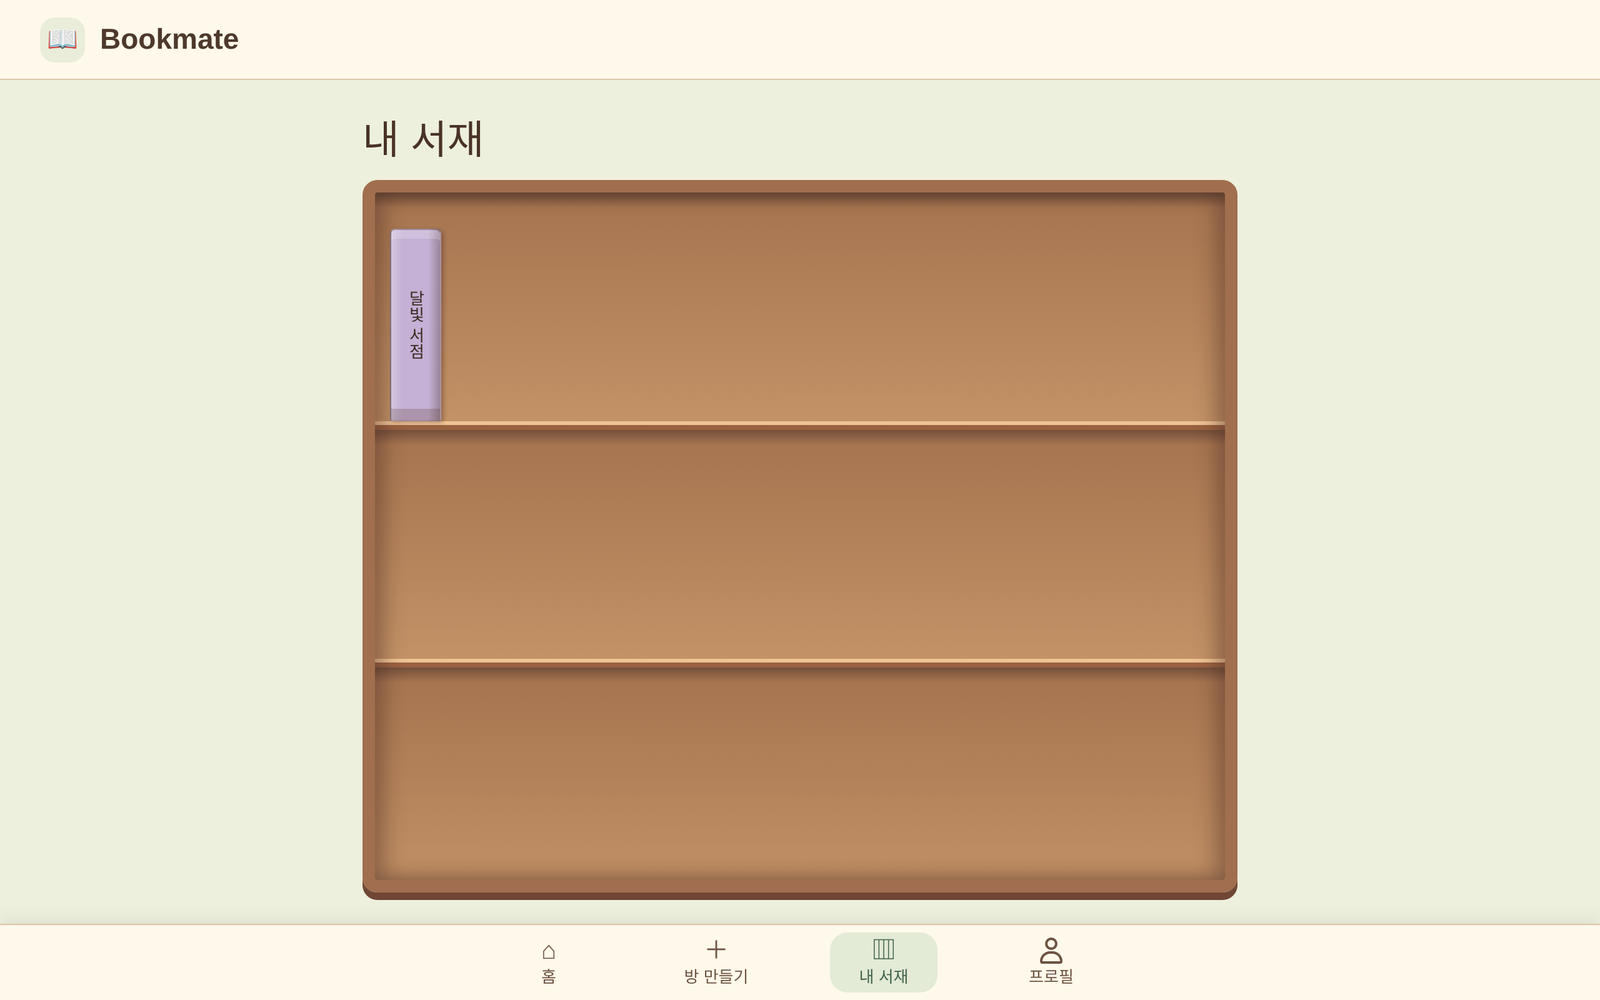
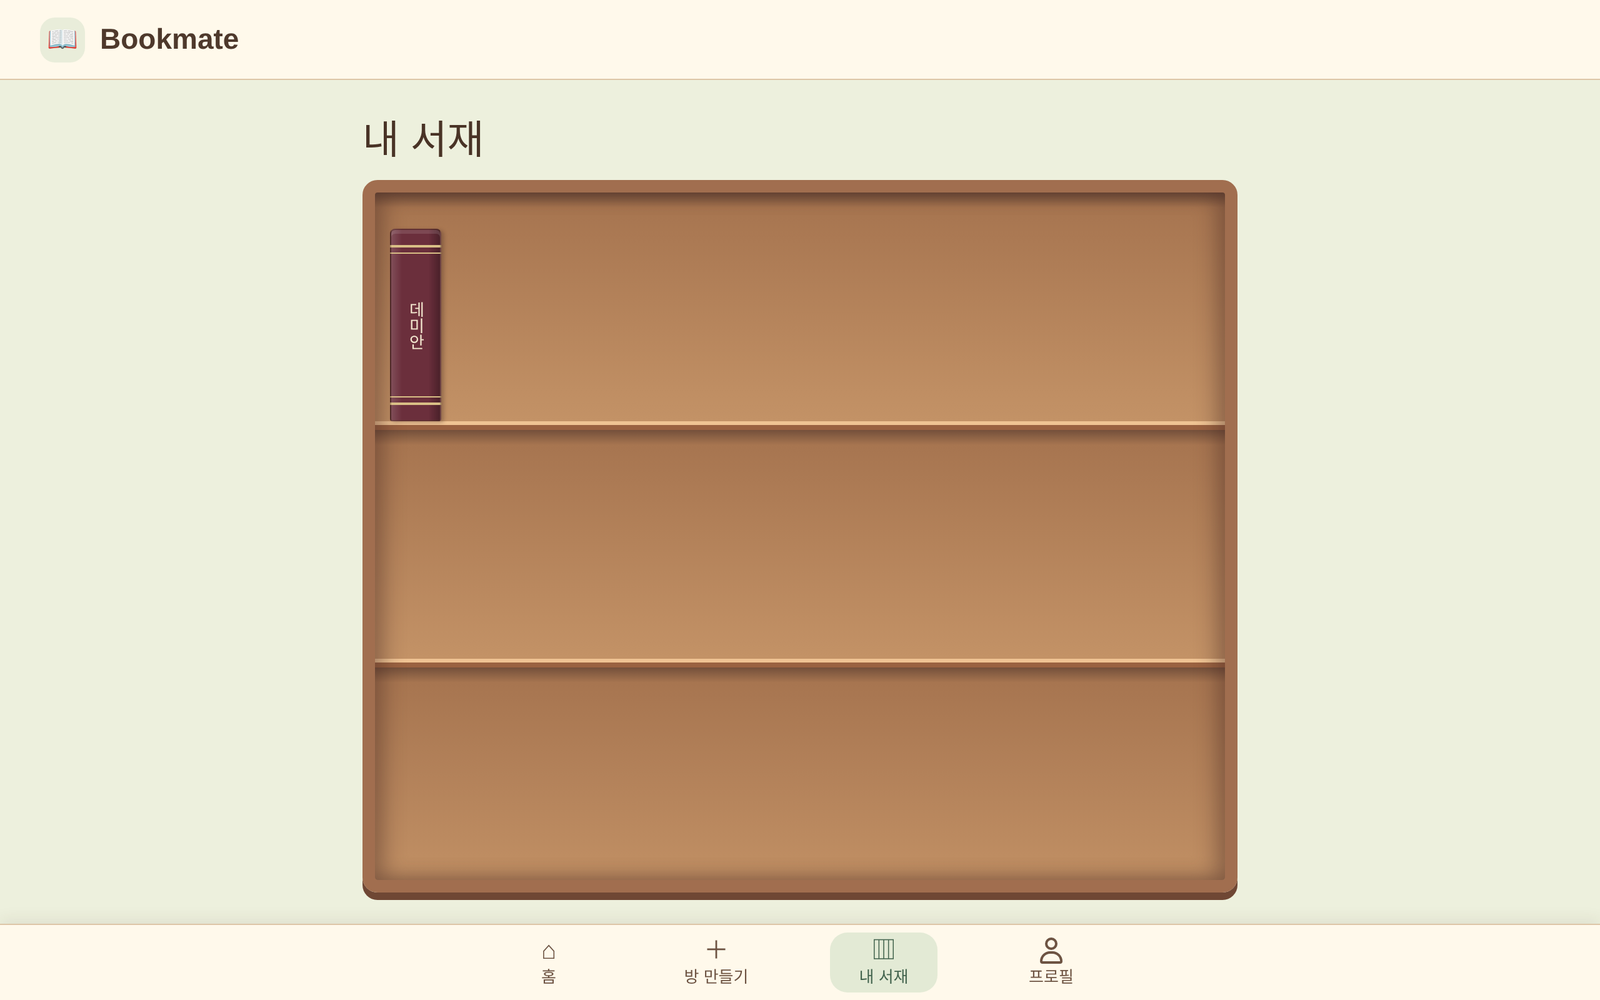
feat: 책 표지를 양장본 스타일로 바꾸고 체험 독서방 이름 정리
- 표지 색을 파스텔에서 천 양장본 톤(숲·와인·벽돌·남색·황토·로즈·가죽)으로 변경
  (테마 키는 서버 검증값이라 그대로 두고 색만 교체)
- 홈·대기실·방 만들기 미리보기·독서방 책 정보·완료 티켓·서재 책등에
  책등 그림자, 종이 단면, 금박 선, 명조 제목을 적용하고 장식 기호(✦ 등) 제거
- 체험 독서방 이름을 실제 책으로 변경: 데미안, 어린 왕자, 노인과 바다, 위대한 개츠비
- 서버 모드 독서방 표지에 저자 표시, 표지 질감이 인라인 색 지정에 지워지지 않도록 수정
- README 화면 캡처 갱신

Claude-Session: https://claude.ai/code/session_01TTMaubjA4Mkdg5wsGZAS9M

Changed region(s): [[0.2188, 0.217, 0.2812, 0.434]]

diff --git a/apps/room-prototype/public/exchange.css b/apps/room-prototype/public/exchange.css
@@ -265,14 +265,19 @@ body.reading-ui {
   padding: 13px 3px;
   border: 1px solid #51362155;
   border-radius: 4px 4px 2px 2px;
-  color: #39291f;
-  background: linear-gradient(90deg, #fff4, transparent 22%, transparent 76%, #43292152), var(--spine);
-  box-shadow: inset 0 7px #fff3, inset 0 -9px #50342139, 2px 1px 3px #3c231e55;
+  color: #f3e7cf;
+  background:
+    linear-gradient(180deg, transparent 12px, #d9bf86 12px, #d9bf86 14px, transparent 14px, transparent 18px, #d9bf86 18px, #d9bf86 19px, transparent 19px,
+      transparent calc(100% - 19px), #d9bf86 calc(100% - 19px), #d9bf86 calc(100% - 18px), transparent calc(100% - 18px),
+      transparent calc(100% - 14px), #d9bf86 calc(100% - 14px), #d9bf86 calc(100% - 12px), transparent calc(100% - 12px)),
+    linear-gradient(90deg, #ffffff26, transparent 22%, transparent 76%, #0000004d), var(--spine);
+  box-shadow: inset 0 3px #ffffff1f, 2px 1px 3px #3c231e55;
 }
 .shelf-book span {
   writing-mode: vertical-rl; text-orientation: mixed;
   max-height: 100%; overflow: hidden; text-overflow: ellipsis; white-space: nowrap;
-  font-size: 13px; font-weight: 800;
+  font-family: "Noto Serif KR", "Nanum Myeongjo", "AppleMyungjo", "Batang", serif;
+  font-size: 13px; font-weight: 700;
 }
 .shelf-book:hover { transform: translateY(-4px); }
 .shelf-dialog-actions { display: flex; flex-wrap: wrap; gap: 8px; justify-content: center; }
@@ -338,12 +343,25 @@ body.reading-ui {
 }
 .reader-stars .rating-stars { font-size: 23px; line-height: 28px; }
 .history-reader blockquote { margin: 0; padding-left: 10px; border-left: 2px solid #c6a483; }
+/* 책 표지: 천 양장본처럼 책등 접힘 그림자, 오른쪽·아래로 보이는 종이 단면, 금박 선을 그립니다.
+   색은 인라인 background-color(테마)로 받고, 질감은 background-image로 겹칩니다. */
 .exchange-cover, .sample-cover {
-  display: grid; place-items: center; flex-shrink: 0; width: 64px; height: 84px; padding: 8px;
-  border-left: 5px solid #51362144; color: #3c2921; border-radius: 6px 12px 12px 6px;
-  font-size: 12px; text-align: center; word-break: keep-all; overflow-wrap: anywhere;
-  box-shadow: 3px 4px 0 #d4b9986b;
+  position: relative; display: grid; place-items: center; flex-shrink: 0; width: 64px; height: 88px;
+  padding: 12px 6px 12px 13px; border: 0; border-radius: 2px 5px 5px 2px;
+  color: #f3e7cf; background-color: #3d5a48;
+  background-image:
+    linear-gradient(90deg, #00000059 0, #0000001f 6px, #ffffff2e 7px, #ffffff00 10px, #ffffff00 88%, #00000024 100%),
+    linear-gradient(180deg, #ffffff12, #00000021);
+  font-family: "Noto Serif KR", "Nanum Myeongjo", "AppleMyungjo", "Batang", serif;
+  font-size: 11px; font-weight: 700; line-height: 1.35; letter-spacing: -.01em;
+  text-align: center; word-break: keep-all; overflow-wrap: anywhere;
+  box-shadow: 1px 1px 0 #f6eedc, 2px 2px 0 #d6c8ab, 3px 3px 0 #f6eedc, 4px 4px 0 #cbbb9b, 5px 7px 9px #3a241a47;
 }
+.exchange-cover::before, .exchange-cover::after, .sample-cover::before, .sample-cover::after {
+  content: ""; position: absolute; left: 13px; right: 6px; height: 1px; background: #d9bf86; opacity: .85;
+}
+.exchange-cover::before, .sample-cover::before { top: 7px; }
+.exchange-cover::after, .sample-cover::after { bottom: 7px; }
 .exchange-book { display: flex; align-items: center; gap: 14px; min-width: 0; }
 .exchange-book > div { min-width: 0; overflow-wrap: anywhere; }
 #finish-status { color: var(--mint); }
@@ -359,13 +377,14 @@ body.exchange .button.secondary, body.reading-ui .button.secondary {
 body.exchange .button.secondary:hover, body.reading-ui .button.secondary:hover { background: #f3e2c5; }
 .cover-preview { display: grid; place-items: center; padding: 24px; border-radius: 16px; background: #e9edda; }
 .preview-book {
-  width: 118px; height: 156px; grid-template-rows: auto auto 1fr; gap: 6px;
-  padding: 18px 10px 10px; box-shadow: 5px 6px 0 #94785752;
+  width: 120px; height: 166px; grid-template-rows: 1fr auto; gap: 6px;
+  padding: 26px 12px 26px 20px;
 }
+.preview-book::before { top: 12px; left: 20px; right: 10px; }
+.preview-book::after { bottom: 12px; left: 20px; right: 10px; }
 .preview-book strong, #cover-author { display: -webkit-box; -webkit-box-orient: vertical; overflow: hidden; }
-.preview-book strong { font-size: 16px; -webkit-line-clamp: 3; }
-#cover-author { -webkit-line-clamp: 1; }
-.cover-ornament { font-size: 27px; opacity: .62; }
+.preview-book strong { align-self: center; font-size: 17px; -webkit-line-clamp: 3; }
+#cover-author { -webkit-line-clamp: 1; color: #d9bf86; font-size: 11px; font-weight: 500; }
 .theme-field { border: 0; margin: 0; padding: 0; min-width: 0; }
 .theme-field legend { margin-bottom: 8px; font-size: 13px; font-weight: 800; color: var(--secondary); }
 #theme-options { display: flex; flex-wrap: wrap; gap: 4px; }
@@ -389,11 +408,13 @@ body.exchange .button.secondary:hover, body.reading-ui .button.secondary:hover {
   text-decoration: none; color: var(--text); min-width: 0;
 }
 .sample-card:hover { background: #fff2db; }
-.sample-cover { width: 36px; height: 49px; font-size: 20px; }
-.sample-cover.plum { background: #c5b1d5; }
-.sample-cover.mint { background: #9db795; }
-.sample-cover.rust { background: #e4a185; }
-.sample-cover.butter { background: #eac779; }
+.sample-cover { width: 36px; height: 50px; padding: 0; }
+.sample-cover::before, .sample-cover::after { left: 9px; right: 4px; }
+.sample-cover::before { top: 6px; } .sample-cover::after { bottom: 6px; }
+.sample-cover.plum { background-color: #6b2f3c; }
+.sample-cover.mint { background-color: #3d5a48; }
+.sample-cover.rust { background-color: #87452f; }
+.sample-cover.blue { background-color: #2c4262; }
 .sample-card small { display: block; color: var(--muted); font-size: 11px; line-height: 1.4; }
 .sample-card strong { font-size: 13px; }
 .reading-ui .sidebar { min-height: 0; border-color: #ddc6a7; }

diff --git a/apps/room-prototype/public/home.html b/apps/room-prototype/public/home.html
@@ -26,10 +26,10 @@
       <div id="room-list" class="exchange-list"></div>
       <div class="exchange-heading"><h2>체험 독서방</h2></div>
       <div class="sample-rooms">
-        <a class="sample-card" href="/?screen=demo&amp;state=complete"><span class="sample-cover plum" aria-hidden="true">✦</span><span><strong>달빛 서점</strong><small>완독 · 히스토리와 티켓</small></span><span aria-hidden="true">›</span></a>
-        <a class="sample-card" href="/room.html"><span class="sample-cover mint" aria-hidden="true">❋</span><span><strong>픽셀 독서방</strong><small>독서 중 · 자유 체험</small></span><span aria-hidden="true">›</span></a>
-        <a class="sample-card" href="/?screen=demo&amp;state=waiting"><span class="sample-cover rust" aria-hidden="true">✿</span><span><strong>귤빛 오후</strong><small>친구 대기 중 · 초대 링크</small></span><span aria-hidden="true">›</span></a>
-        <a class="sample-card" href="/?screen=demo&amp;state=ready"><span class="sample-cover butter" aria-hidden="true">✦</span><span><strong>햇살 책모임</strong><small>전원 참가 · 시작 대기 중</small></span><span aria-hidden="true">›</span></a>
+        <a class="sample-card" href="/?screen=demo&amp;state=complete"><span class="sample-cover plum" aria-hidden="true"></span><span><strong>데미안</strong><small>완독 · 히스토리와 티켓</small></span><span aria-hidden="true">›</span></a>
+        <a class="sample-card" href="/room.html"><span class="sample-cover mint" aria-hidden="true"></span><span><strong>어린 왕자</strong><small>독서 중 · 자유 체험</small></span><span aria-hidden="true">›</span></a>
+        <a class="sample-card" href="/?screen=demo&amp;state=waiting"><span class="sample-cover rust" aria-hidden="true"></span><span><strong>노인과 바다</strong><small>친구 대기 중 · 초대 링크</small></span><span aria-hidden="true">›</span></a>
+        <a class="sample-card" href="/?screen=demo&amp;state=ready"><span class="sample-cover blue" aria-hidden="true"></span><span><strong>위대한 개츠비</strong><small>전원 참가 · 시작 대기 중</small></span><span aria-hidden="true">›</span></a>
       </div>
     </section>
     <section id="create-view" hidden>
@@ -38,7 +38,6 @@
         <div class="cover-preview">
           <div class="exchange-cover preview-book" id="cover-preview" aria-label="책 표지 미리보기">
             <strong id="cover-title">책 제목</strong><span id="cover-author">저자</span>
-            <span class="cover-ornament" aria-hidden="true">✦</span>
           </div>
         </div>
         <label>책 제목<input name="title" required maxlength="80"></label>

diff --git a/apps/room-prototype/exchange-api.js b/apps/room-prototype/exchange-api.js
@@ -57,10 +57,10 @@ function inviteCode() {
   return code;
 }
 const demoBooks = {
-  complete: { title: "달빛 서점", author: "체험용 도서", theme: "plum" },
-  reading: { title: "숲속 우체국", author: "체험용 도서", theme: "mint" },
-  waiting: { title: "귤빛 오후", author: "체험용 도서", theme: "rust" },
-  ready: { title: "햇살 책모임", author: "체험용 도서", theme: "butter" },
+  complete: { title: "데미안", author: "헤르만 헤세", theme: "plum" },
+  reading: { title: "작은 아씨들", author: "루이자 메이 올컷", theme: "cocoa" },
+  waiting: { title: "노인과 바다", author: "어니스트 헤밍웨이", theme: "rust" },
+  ready: { title: "위대한 개츠비", author: "F. 스콧 피츠제럴드", theme: "blue" },
 };
 function demoRoom(state, appearance, profileId) {
   if (!Object.hasOwn(demoBooks, state)) reject("체험 독서방을 찾을 수 없어요.", 404);
@@ -79,8 +79,8 @@ function demoRoom(state, appearance, profileId) {
     if (state === "complete") {
       host.finishedAt = friend.receivedAt = time(3);
       friend.finishedAt = room.completedAt = time(1);
-      Object.assign(host, { rating: 5, review: "책을 덮고 나서도 달빛 아래 서점이 떠올랐어요.", quote: "어떤 문장은 밤이 깊어야 읽힌다." });
-      Object.assign(friend, { rating: 4, review: "서로 다른 마음이 한 권의 책에 모이는 이야기가 좋았어요." });
+      Object.assign(host, { rating: 5, review: "알을 깨고 나오는 장면에서 한참 멈춰 있었어요.", quote: "새는 알에서 나오려고 투쟁한다." });
+      Object.assign(friend, { rating: 4, review: "앞사람 밑줄 덕분에 싱클레어의 마음을 한 번 더 따라가 봤어요." });
     }
   }
   save(room);

diff --git a/apps/room-prototype/public/room.css b/apps/room-prototype/public/room.css
@@ -313,35 +313,50 @@ canvas {
   font-size: 14px;
   font-weight: 500;
 }
+/* 책 정보 표지: 홈 화면 표지와 같은 양장본 모양 (책등 그림자, 종이 단면, 금박 선) */
 .cover {
   flex-shrink: 0;
   position: relative;
   width: 80px;
-  height: 120px;
-  padding: 12px 8px;
+  height: 116px;
+  padding: 16px 8px 12px 14px;
   overflow: hidden;
-  background: #d5cfb5;
-  border-left: 4px solid #b8b194;
-  color: #304b42;
+  border-radius: 2px 5px 5px 2px;
+  background-color: #3d5a48;
+  background-image:
+    linear-gradient(90deg, #00000059 0, #0000001f 6px, #ffffff2e 7px, #ffffff00 10px, #ffffff00 88%, #00000024 100%),
+    linear-gradient(180deg, #ffffff12, #00000021);
+  color: #f3e7cf;
+  font-family: "Noto Serif KR", "Nanum Myeongjo", "AppleMyungjo", "Batang", serif;
+  box-shadow: 1px 1px 0 #f6eedc, 2px 2px 0 #d6c8ab, 3px 3px 0 #f6eedc, 5px 6px 8px #3a241a40;
+}
+.cover::before {
+  content: ""; position: absolute; top: 8px; left: 14px; right: 7px; height: 1px; background: #d9bf86; opacity: .85;
 }
 .cover span {
-  font-size: 16px;
-  line-height: 24px;
-  font-weight: 500;
+  font-size: 15px;
+  line-height: 21px;
+  font-weight: 700;
 }
 .cover small {
   position: absolute;
   bottom: 8px;
-  right: 8px;
-  font-size: 12px;
+  left: 14px;
+  right: 6px;
+  color: #d9bf86;
+  font-size: 10px;
+  text-align: right;
+  white-space: nowrap;
+  overflow: hidden;
+  text-overflow: ellipsis;
 }
 .cover-art {
   position: absolute;
   width: 80px;
   height: 24px;
-  bottom: 24px;
-  left: 0;
-  background: #657e65;
+  bottom: 22px;
+  left: 6px;
+  background: #00000033;
   clip-path: polygon(
     0 70%,
     20% 70%,

diff --git a/apps/room-prototype/public/exchange.js b/apps/room-prototype/public/exchange.js
@@ -338,8 +338,13 @@ function ticket(room) {
   ctx.beginPath();
   ctx.roundRect(59, 53, 166, 216, [5, 16, 16, 5]);
   ctx.fill();
-  ctx.fillStyle = "#0003";
-  ctx.fillRect(59, 53, 12, 216);
+  ctx.fillStyle = "#0000004d";
+  ctx.fillRect(59, 53, 10, 216);
+  ctx.fillStyle = "#ffffff26";
+  ctx.fillRect(69, 53, 3, 216);
+  ctx.fillStyle = "#d9bf86";
+  ctx.fillRect(84, 70, 126, 2);
+  ctx.fillRect(84, 250, 126, 2);
   function lines(value, width, size, family) {
     ctx.font = size + "px " + family;
     const rows = [];
@@ -360,8 +365,8 @@ function ticket(room) {
       ctx.fillText(row + (i === limit - 1 && rows.length > limit ? "…" : ""), x, y + i * size * 1.3, width);
     }
   }
-  text(room.title, 81, 108, 21, 126, 4, "#3c2921", "serif");
-  text("✦", 124, 241, 35, 70, 1, "#3c2921");
+  text(room.title, 84, 108, 21, 122, 4, "#f3e7cf", "serif");
+  text(room.author, 84, 236, 14, 122, 1, "#d9bf86", "serif");
   text("EXCHANGE READING", 266, 88, 23, 600, 1, muted);
   text(room.title, 266, 149, 43, 628, 2, ink, "serif");
   text(room.author, 266, 245, 25, 620, 1, muted);
@@ -455,7 +460,7 @@ async function shelf() {
 }
 
 function setupRoomOptions(create) {
-  const names = { mint: "세이지", plum: "라벤더", rust: "살구", blue: "하늘", butter: "버터", rose: "장미", cocoa: "코코아" };
+  const names = { mint: "숲", plum: "와인", rust: "벽돌", blue: "남색", butter: "황토", rose: "로즈", cocoa: "가죽" };
   for (const [theme, color] of Object.entries(themes)) {
     const label = node("label", "", "theme-option");
     const radio = node("input");

diff --git a/apps/room-prototype/public/index.html b/apps/room-prototype/public/index.html
@@ -62,7 +62,7 @@
         <div class="room-heading">
           <div>
             <span class="eyebrow">독서방 1</span>
-            <h1>픽셀 독서방</h1>
+            <h1>어린 왕자</h1>
           </div>
           <span class="room-count">4명</span>
         </div>
@@ -192,14 +192,14 @@
       <aside class="sidebar">
         <section class="book-section">
           <span class="eyebrow">책 정보</span>
-          <div class="book-detail" data-book-id="prototype-book-1" data-cover-color="#d5cfb5" data-cover-art="#657e65">
+          <div class="book-detail" data-book-id="prototype-book-1" data-cover-color="#3d5a48" data-cover-art="#d9bf86">
             <div class="cover" aria-hidden="true">
-              <span>체험용<br />도서</span>
+              <span>어린<br />왕자</span>
               <div class="cover-art"></div>
-              <small>01</small>
+              <small>생텍쥐페리</small>
             </div>
             <div>
-              <h2>체험용 도서</h2>
+              <h2>어린 왕자</h2>
               <p class="muted">현재 책 소유자</p>
               <strong id="holder">소이</strong>
             </div>

diff --git a/apps/room-prototype/public/exchange-client.js b/apps/room-prototype/public/exchange-client.js
@@ -1,9 +1,10 @@
 import { serverMode, serverAvailable, ensureAccount, apiRequest } from "./account.js";
 export const exchangeCode = new URLSearchParams(location.search).get("code")?.toUpperCase() ?? "";
 const key = code => "bookmate-exchange:" + code;
+// 책 표지 색. 키(mint, plum …)는 서버가 검증하는 값이라 그대로 두고, 색만 양장본 천 표지 톤으로 맞춥니다.
 export const themes = {
-  mint: "#9db795", plum: "#c5b1d5", rust: "#e4a185", blue: "#a1bed4",
-  butter: "#eac779", rose: "#e4a9b1", cocoa: "#ba947e",
+  mint: "#3d5a48", plum: "#6b2f3c", rust: "#87452f", blue: "#2c4262",
+  butter: "#8f6f34", rose: "#86505b", cocoa: "#56402f",
 };
 export const exchangeUrl = (code, screen = "waiting") => "/?code=" + encodeURIComponent(code) + "&screen=" + screen + (!serverMode && new URLSearchParams(location.search).has("local") ? "&local=1" : "");
 

diff --git a/apps/room-prototype/public/room.js b/apps/room-prototype/public/room.js
@@ -93,7 +93,8 @@ if (exchange) {
   $(".room-heading h1").textContent = exchange.title;
   bookDetail.querySelector("h2").textContent = exchange.title;
   bookDetail.querySelector(".cover span").textContent = exchange.title;
-  bookDetail.querySelector(".cover").style.background = currentBook.color;
+  bookDetail.querySelector(".cover small").textContent = exchange.author;
+  bookDetail.querySelector(".cover").style.backgroundColor = currentBook.color; // background-image(질감)는 유지
 }
 const petCollectionKey = petCollectionKeyFor(serverMode && account?.id);
 let pets = loadPets(petCollectionKey);
